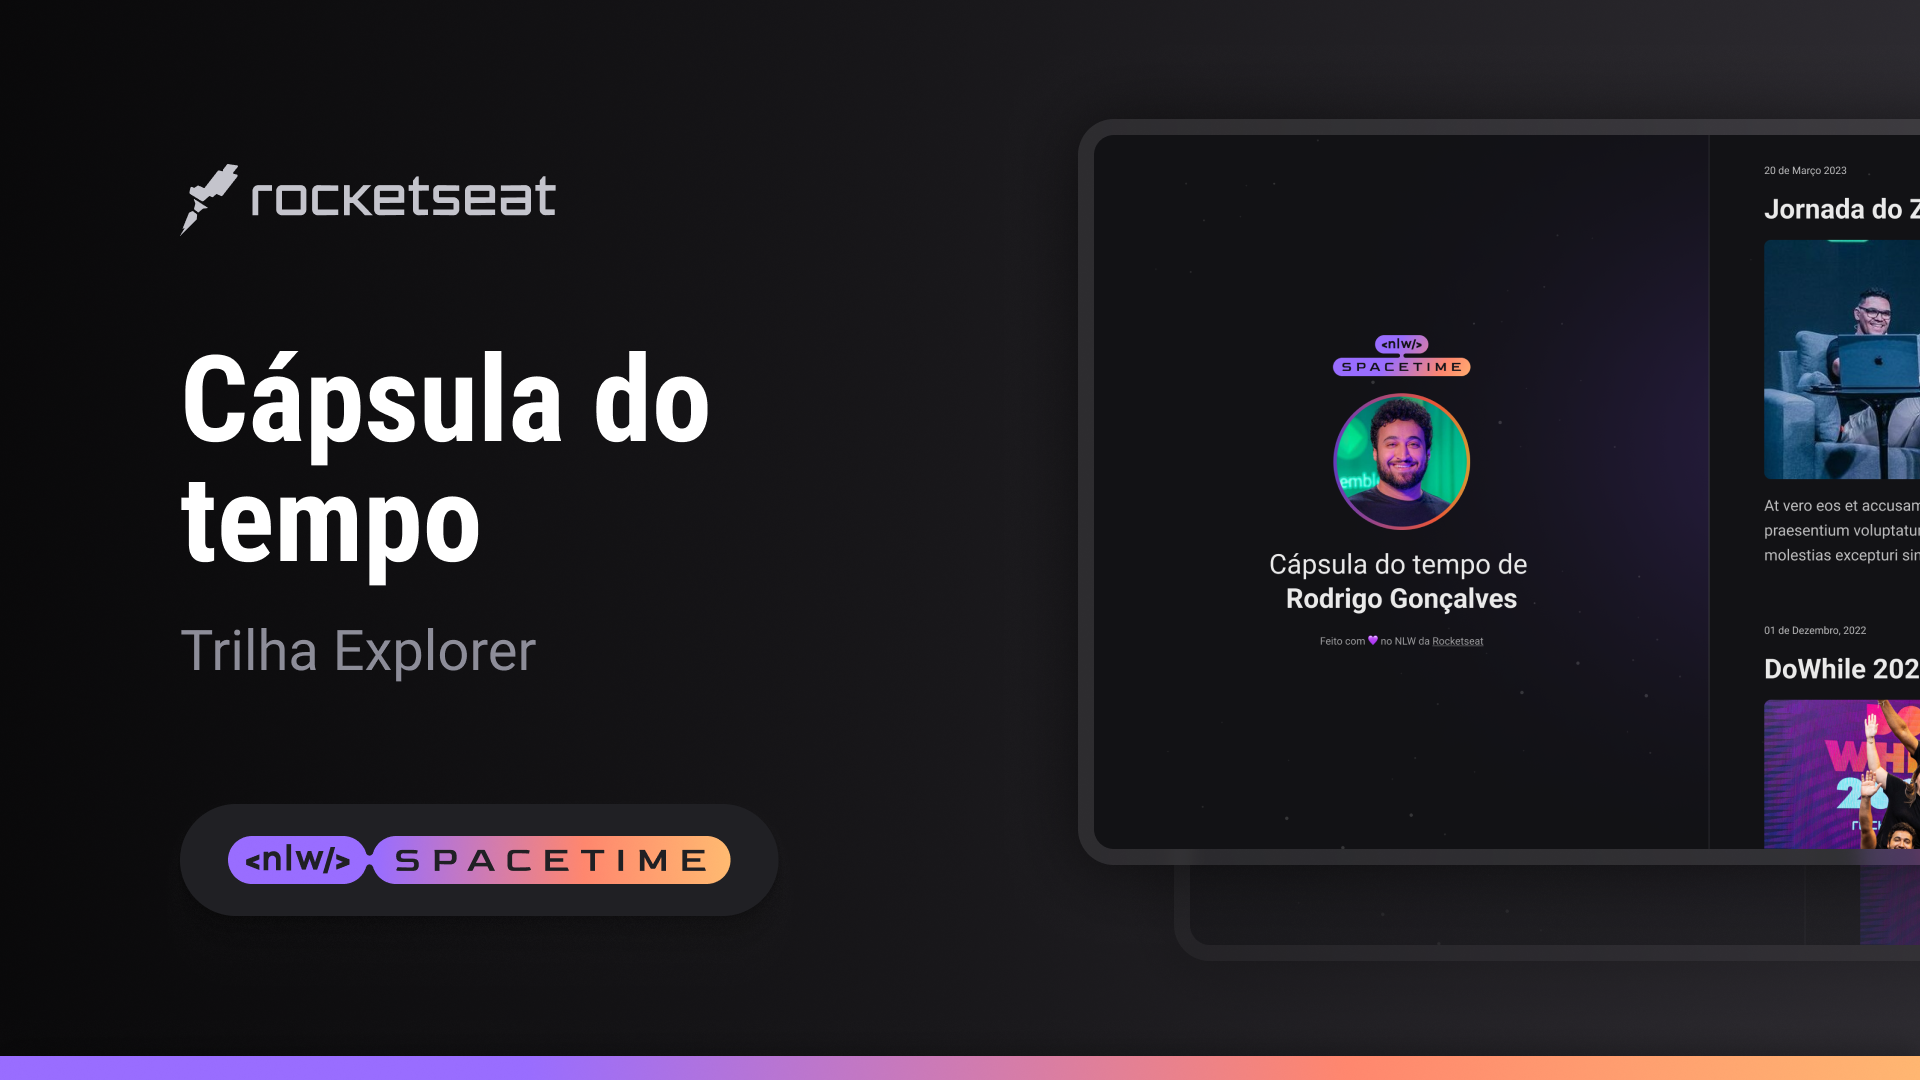
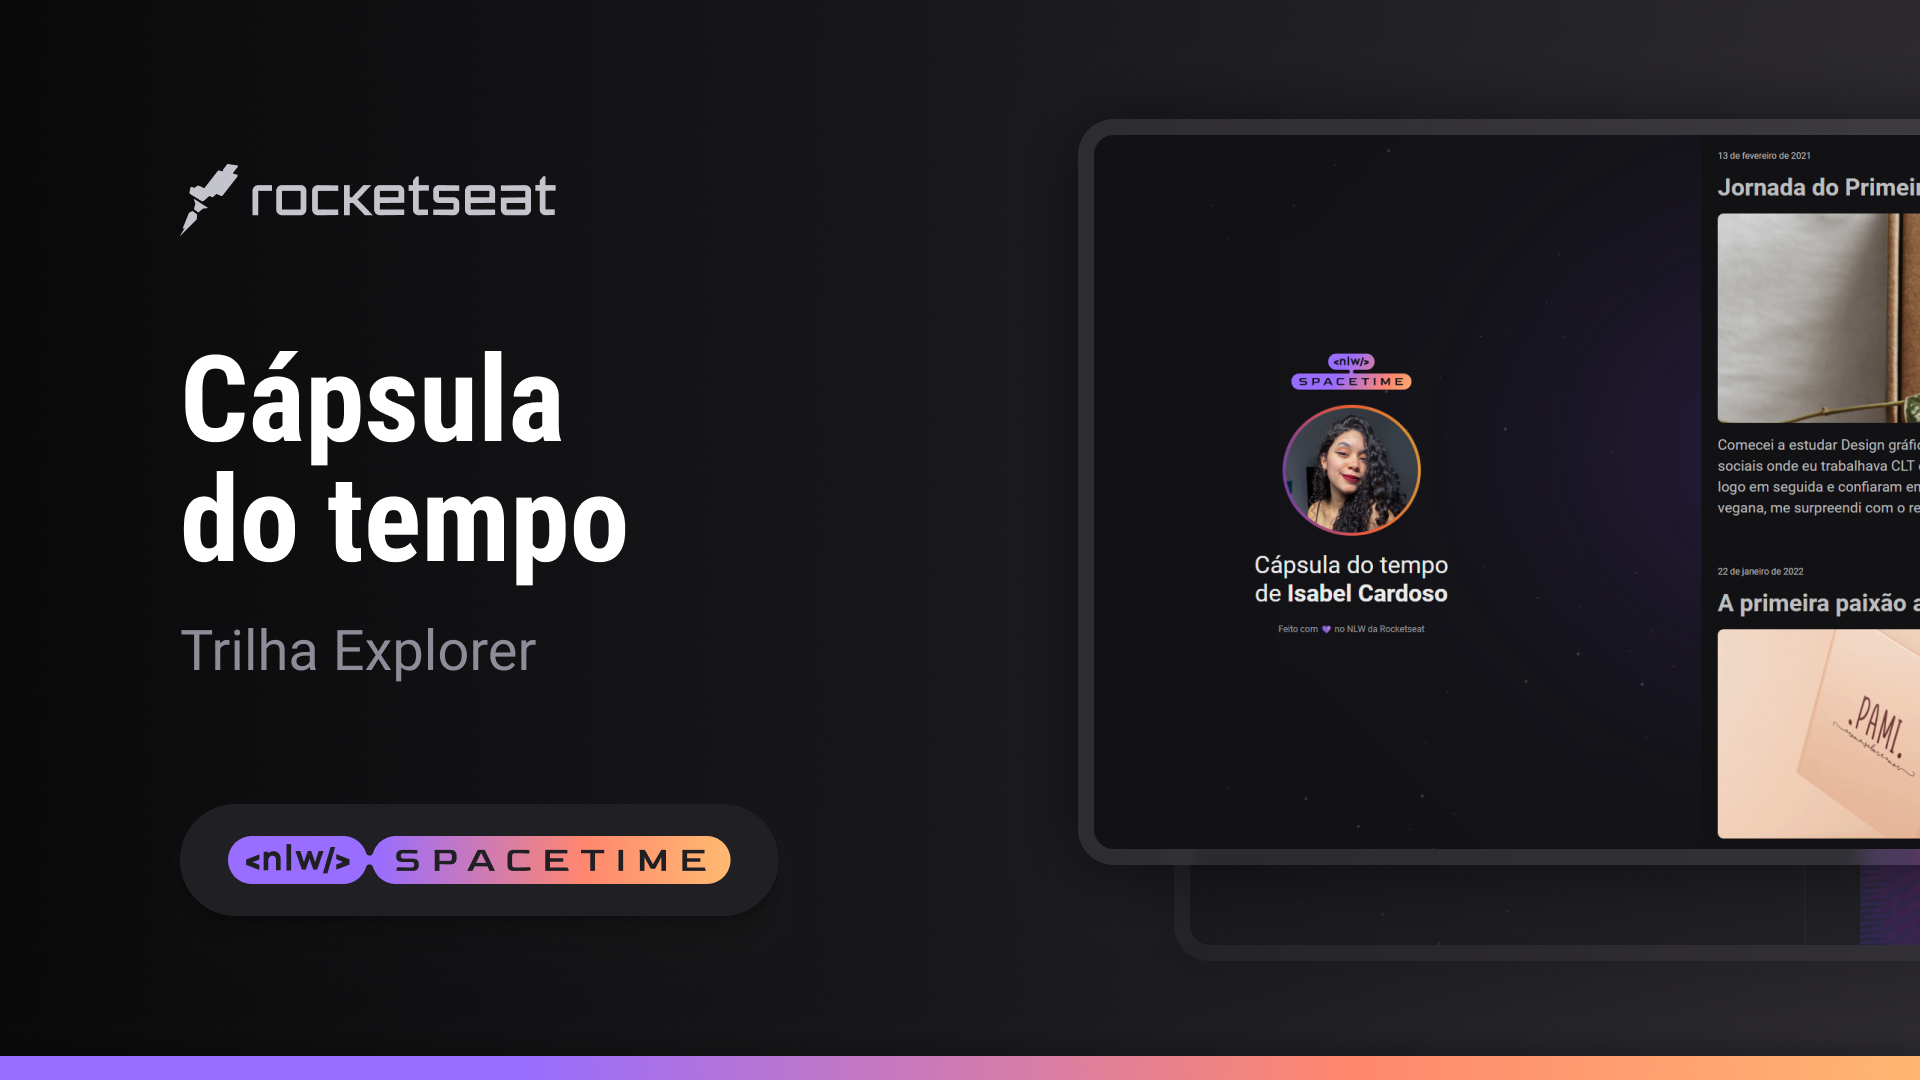
Add project about

diff --git a/index.html b/index.html
@@ -18,15 +18,15 @@
   </head>
   <body>
     <aside>
-    <img src="./IMAGENS/logo.svg" alt="Logo NLW Spacetime" />
-    <img src="./IMAGENS/isabel cardoso.jpeg" alt="Foto da Isabel" />
+      <img src="./IMAGENS/logo.svg" alt="Logo NLW Spacetime" />
+      <img src="./IMAGENS/isabel cardoso.jpeg" alt="Foto da Isabel" />
 
-    <p>
-     Cápsula do tempo <br> 
-     de <strong> Isabel Cardoso </strong>
-    </p>
-    
-    <span> Feito com 💜 no NLW da Rocketseat </span>
+      <p>
+        Cápsula do tempo <br>
+        de <strong> Isabel Cardoso </strong>
+      </p>
+
+      <span> Feito com 💜 no NLW da Rocketseat </span>
     </aside>
 
     <nav>
@@ -35,62 +35,74 @@
         target="_blank"
         class="memory"
       >
-        <small> 20 de março de 2023 </small>
-        <h1>Jornada do Zero á Primeira Vaga</h1>
+        <small> 13 de fevereiro de 2021 </small>
+        <h1>Jornada do Primeiro Design...</h1>
         <div>
-        <img
-          src="./IMAGENS/jornada.png"
-          alt="Rodrigo e Mayk apresentando o evento Jornada do Zero á Primeira Vaga"
-        />
+          <img src="./IMAGENS/01_.png" alt="Primeira identidade visual" />
         </div>
         <p>
-          At vero eos et accusamus et iusto odio dignissimos ducimus qui
-          blanditiis praesentium voluptatum deleniti atque corrupti quos dolores
-          et quas molestias excepturi sint occaecati cupiditate non provident,
-          similique...
+          Comecei a estudar Design gráfico em meados de 2020, me aventurava em
+          criar peças para as redes sociais onde eu trabalhava CLT e me saia bem
+          para uma iniciante, comecei a trabalhar como Freelancer logo em
+          seguida e confiaram em mim a criação de uma identidade visual do zero
+          de uma doceria vegana, me surpreendi com o resultado e comecei a me
+          interessar mais ainda.
         </p>
       </a>
       <a
-        href="https://www.behance.net/gallery/112099013/E-book-Apresentacao"
+        href="https://www.behance.net/gallery/113466593/Identidade-visual"
         target="_blank"
         class="memory"
       >
-        <small> 20 de março de 2023 </small>
-        <h1>Lorem lorem lorem 1</h1>
+        <small> 22 de janeiro de 2022 </small>
+        <h1>A primeira paixão a gente nunca esquece...</h1>
         <div>
-        <img
-          src="./IMAGENS/friends-city-women-with-phone-social-media-conversation-connection-london-street-communication-internet-happy-black-woman-girl-smartphone-smile-selfie-app-meme.jpg"
-          alt="Rodrigo e Mayk apresentando o evento Jornada do Zero á Primeira Vaga"
-        />
+          <img src="./IMAGENS/08_.gif" alt="Peças criadas por Isabel" />
         </div>
         <p>
-          At vero eos et accusamus et iusto odio dignissimos ducimus qui
-          blanditiis praesentium voluptatum deleniti atque corrupti quos dolores
-          et quas molestias excepturi sint occaecati cupiditate non provident,
-          similique...
+          Depois disso eu sai em disparada fazendo várias identidades visuais,
+          catálogos, social media, TUDO que eu podia criar eu criei! Aprendi
+          técnicas no dia a dia, buscava constantemente por inspirações e
+          recebia muita ajuda de amigos, me apaixonei pela criação como um todo
+          e no que ela pode me proporcionar até agora...
         </p>
       </a>
       <a
-        href="https://www.behance.net/gallery/112099013/E-book-Apresentacao"
+        href="https://www.behance.net/isablcardoso"
         target="_blank"
         class="memory"
       >
-        <small> 20 de março de 2023 </small>
-        <h1>Lorem lorem lorem 2!</h1>
+        <small> 25 de novembro 2022 </small>
+        <h1>Nasce um novo interesse...</h1>
         <div>
-        <img
-          src="./IMAGENS/beautiful-smiling-asian-girl-drinking-coffee-using-mobile-phone-sits-stairs-outside-young-wom.jpg"
-          alt="Rodrigo e Mayk apresentando o evento Jornada do Zero á Primeira Vaga"
-        />
+          <img src="./IMAGENS/09_.png" alt="Criações de UI Design de Isabel" />
         </div>
         <p>
-          At vero eos et accusamus et iusto odio dignissimos ducimus qui
-          blanditiis praesentium voluptatum deleniti atque corrupti quos dolores
-          et quas molestias excepturi sint occaecati cupiditate non provident,
-          similique...
+          Um dia acabei vendo o termo UX UI Design e me interessei de imediato,
+          quando pude eu comecei o curso (ainda estou fazendo) e estou me
+          aventurando até hoje... No final de 2022 consegui uma vaga de emprego
+          onde eu posso experimentar ideias novas e me desenvolver como
+          profissional, tudo que eu sempre almejei.
+        </p>
+      </a>
+      <a
+        href="https://www.behance.net/isablcardoso"
+        target="_blank"
+        class="memory"
+      >
+        <small> 15 de maio de 2023 </small>
+        <h1>Me aventurando além do espaço tempo...</h1>
+        <div>
+          <img src="./IMAGENS/Wallpaper - 1920x1080 (1).png" alt="Rocketseat" />
+        </div>
+        <p>
+          Percebi que entrando no mundo de UI Design eu precisava me recarregar
+          de mais estudos pra conseguir entregar um trabalho eficiente (Isso
+          inclui aprender o básico de HTML e CSS) e com a indicação de uma
+          amiga, conheci a Rocketseat e aqui estou eu me aventurando novamente e
+          não pretendo parar tão cedo. Nos vemos por ai... 😉
         </p>
       </a>
     </nav>
-
   </body>
 </html>

diff --git a/README.md b/README.md
@@ -1,3 +1,20 @@
 <p align="center">
-<img src=".github/previw.png" alt= "Demonstração do projeto" width=" >%" />
+<img src=".github/preview.png" alt= "Demonstração do projeto" width="100% " />
 </p>
+
+## 🖥 Projeto
+
+Esse é um projeto web responsivo de uma capsula para exibir memórias em uma linha do tempo.
+
+## 🚀 Tecnologias
+
+Esse projeto foi desenvolvido durante o NLWS da Rocketseat com as seguintes tecnologias:
+
+- HTML
+- CSS
+- Git e Github
+
+## 🏷 Layout
+
+Você pode visualizar o layout do projeto através [desse link] (https://www.figma.com/file/n0A1jmZ4clQVx70L2j3R06/C%C3%A1psula-do-tempo-%E2%80%A2-Isabel?type=design&node-id=306%3A84&t=jwCyJI3ykZRWDOm0-1). 
+É necessário ter uma conta no figma. [Figma] (https://www.figma.com)
